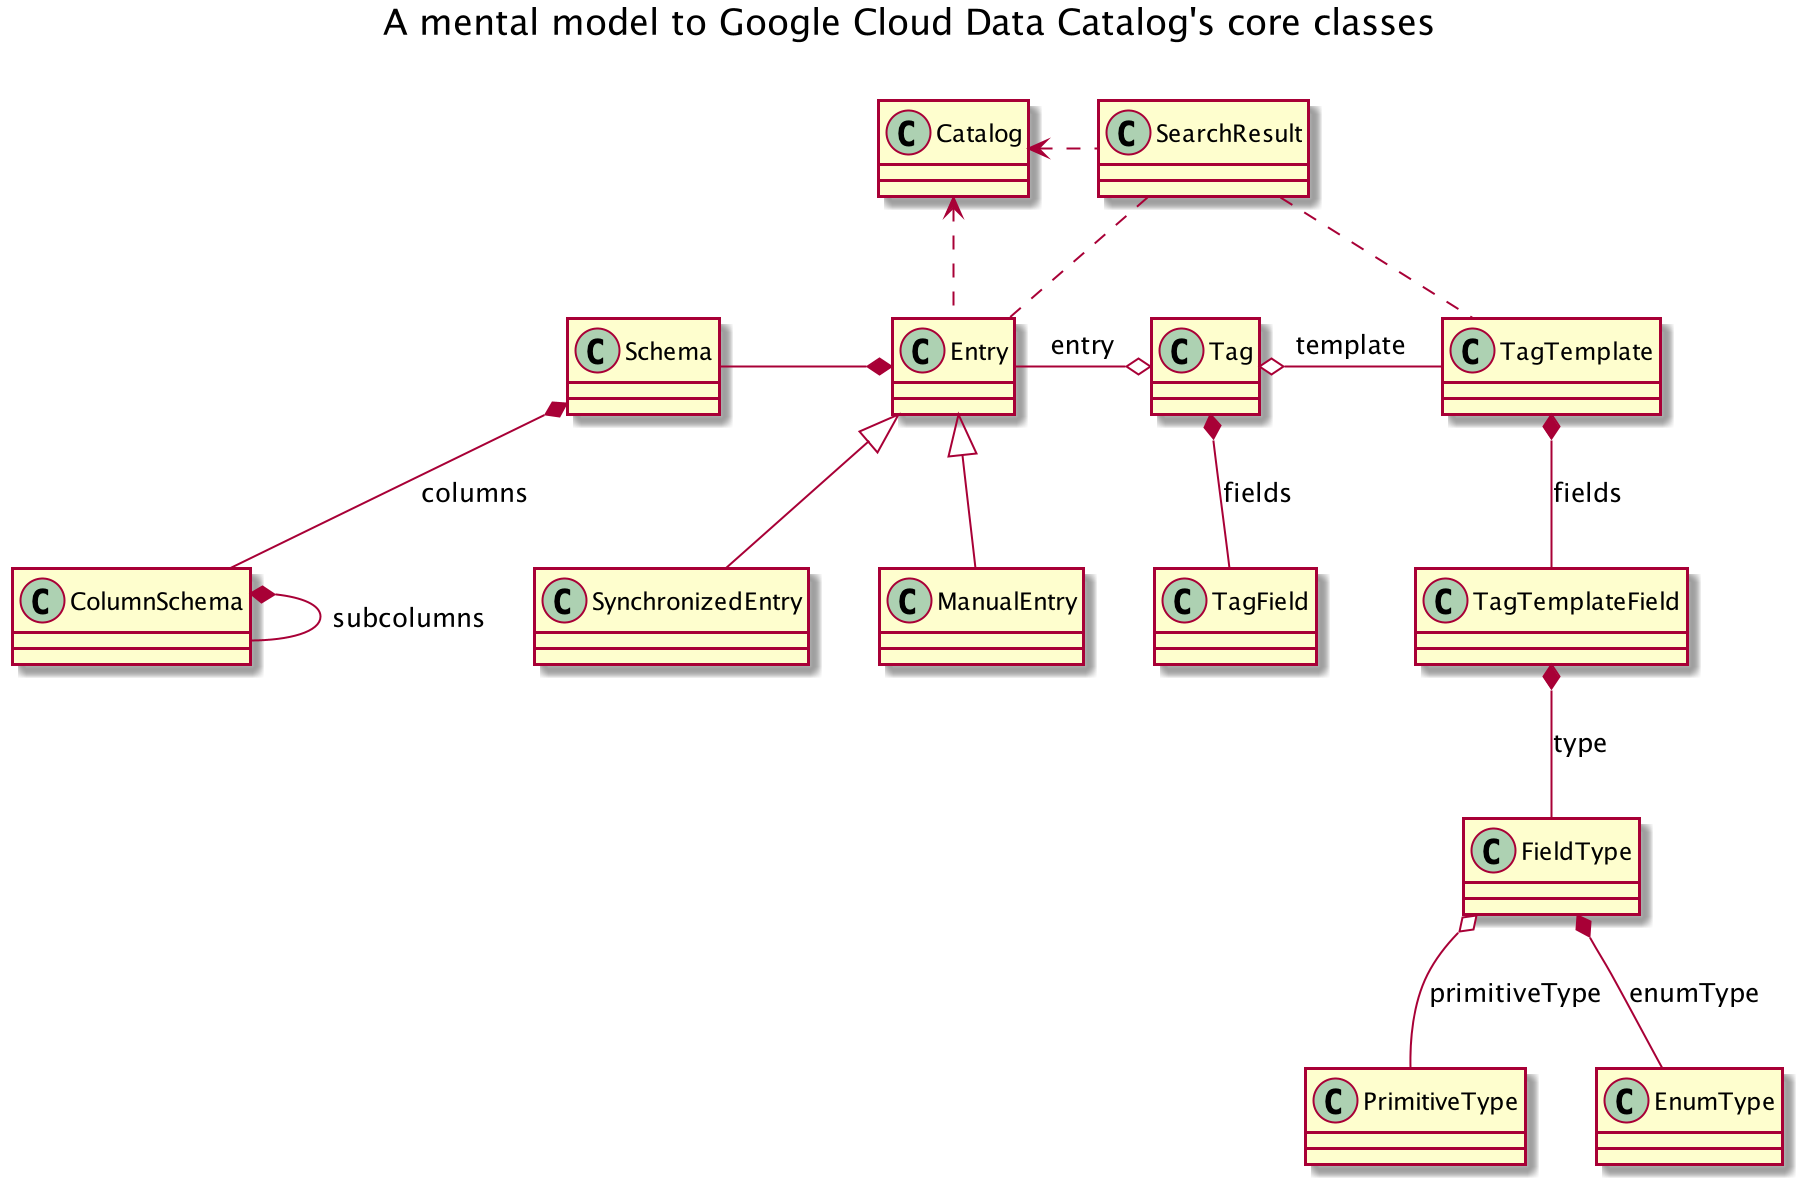
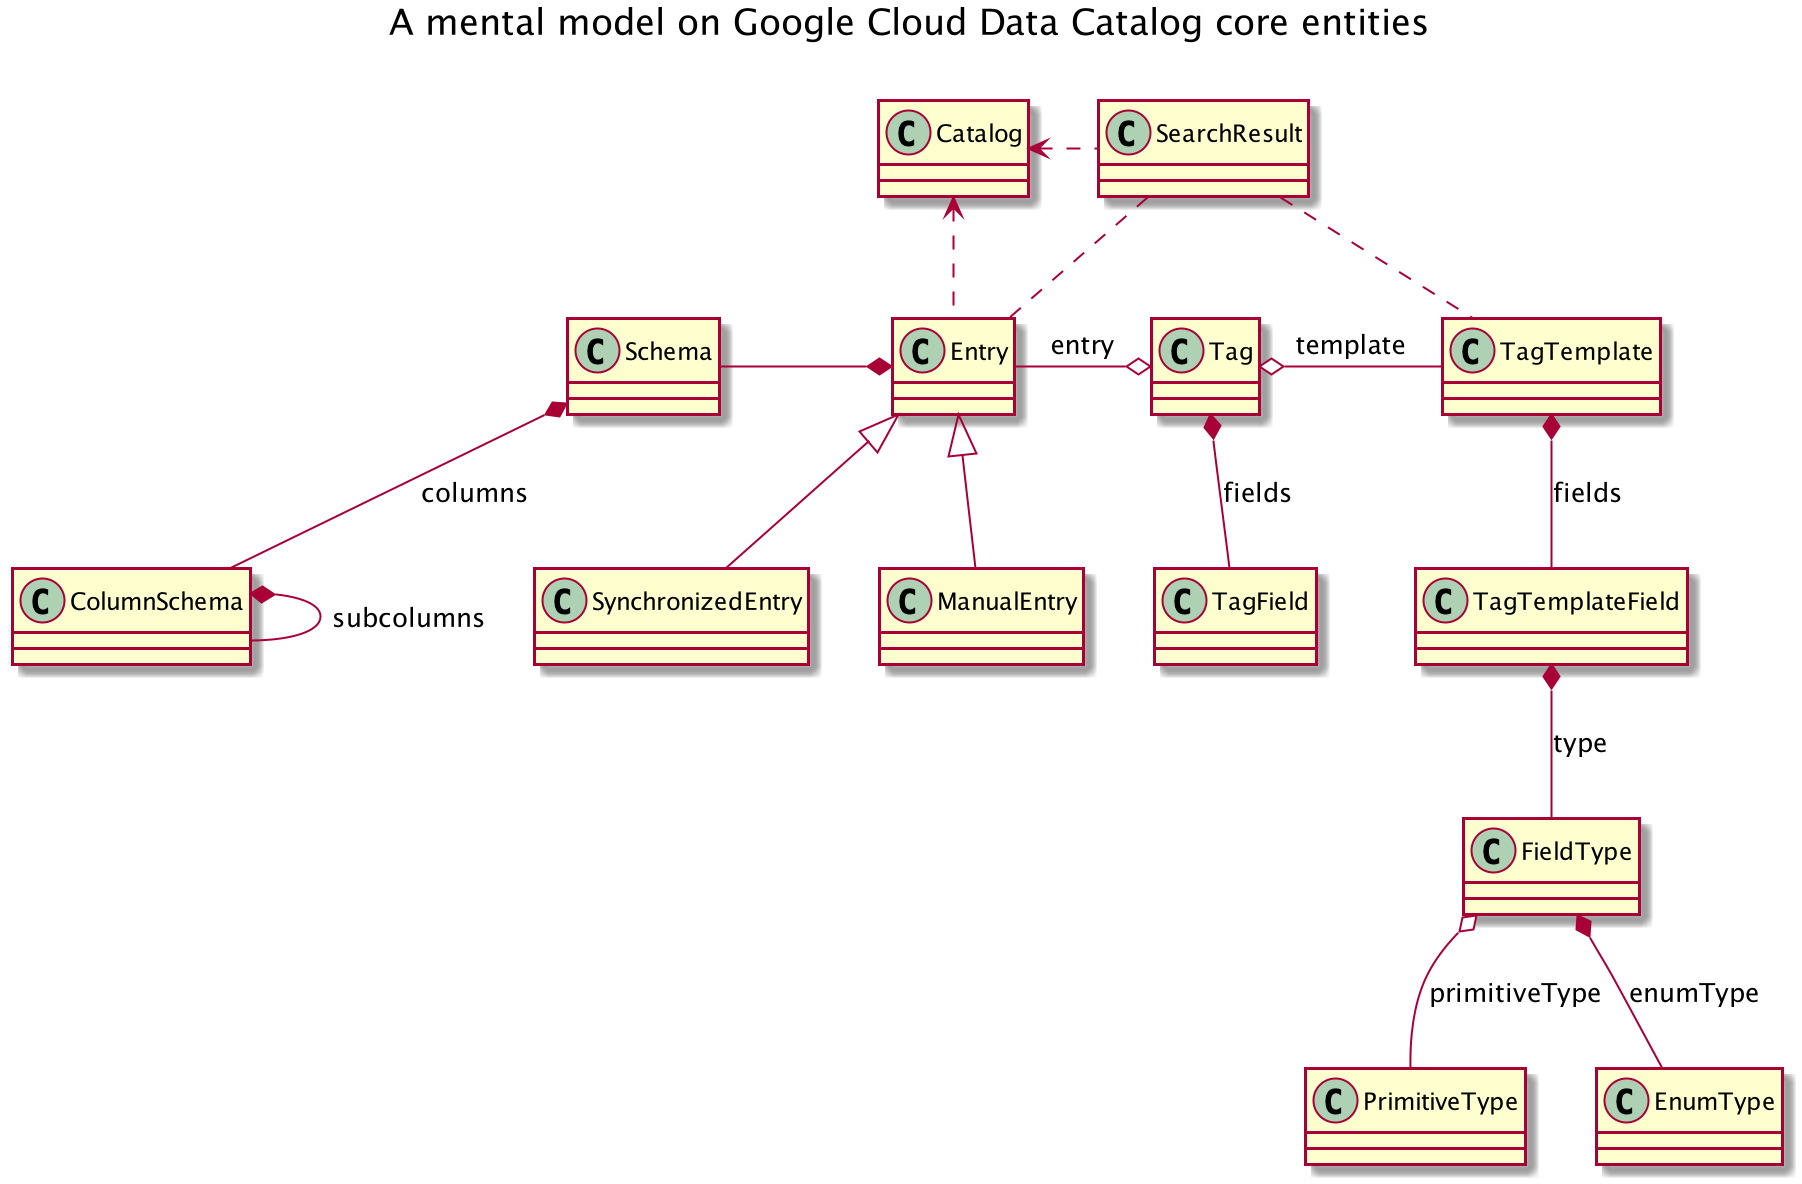
Improve descriptions and labels

Changed region(s): [[0.2175, 0.0, 0.808, 0.0312]]

diff --git a/README.md b/README.md
@@ -1,6 +1,6 @@
 # gcp-data-catalog-diagrams
 
-Diagrams that help clarifying Google Cloud Data Catalog Entity Model.
+Diagrams that help clarifying Google Cloud Data Catalog core features.
 
 > Disclaimer: this is my personal way of thinking, as a Data Catalog early adopter — only & simply this. The model is not based on any official/supported reference.
 
@@ -12,20 +12,20 @@ Diagrams that help clarifying Google Cloud Data Catalog Entity Model.
 
 - [Data Catalog hands-on guide: templates & tags with Python](https://medium.com/google-cloud/data-catalog-hands-on-guide-templates-tags-with-python-c45eb93372ef) @ Google Cloud Community / Medium
 
-## The diagrams
+## 1. Entity Model diagrams
 
-### 1. Core classes
+### 1.1. Core entities
 
-![alt text](mental-model/core-classes.png "Google Cloud Data Catalog core classes")
+![alt text](mental-model/core-classes.png "Google Cloud Data Catalog core entities")
 
-### 2. Lookup Entry related classes
+### 1.2. Search Catalog & Lookup Entry related entities
 
-![alt text](mental-model/lookup-entry-classes.png "Google Cloud Data Catalog \"Lookup Entry\" related classes")
+![alt text](mental-model/search-catalog-lookup-entry-classes.png "Google Cloud Data Catalog Search & Lookup related entities")
 
-### 3. Tag related classes
+### 1.3. Tag Template & Tag relationship
 
-![alt text](mental-model/tag-classes.png "Google Cloud Data Catalog \"Tag\" related classes")
+![alt text](mental-model/tag-template-tag-classes.png "Google Cloud Data Catalog Tag Template & Tag related entities")
 
-### 4. Entry & Tag relationship
+### 1.4. Entry, Tag & Tag Template relationships
 
-![alt text](mental-model/entry-tag-classes.png "Google Cloud Data Catalog \"Entry\" & \"Tag\" related classes")
+![alt text](mental-model/entry-tag-tag-template-classes.png "Google Cloud Data Catalog Entry, Tag Template & Tag related entities")
